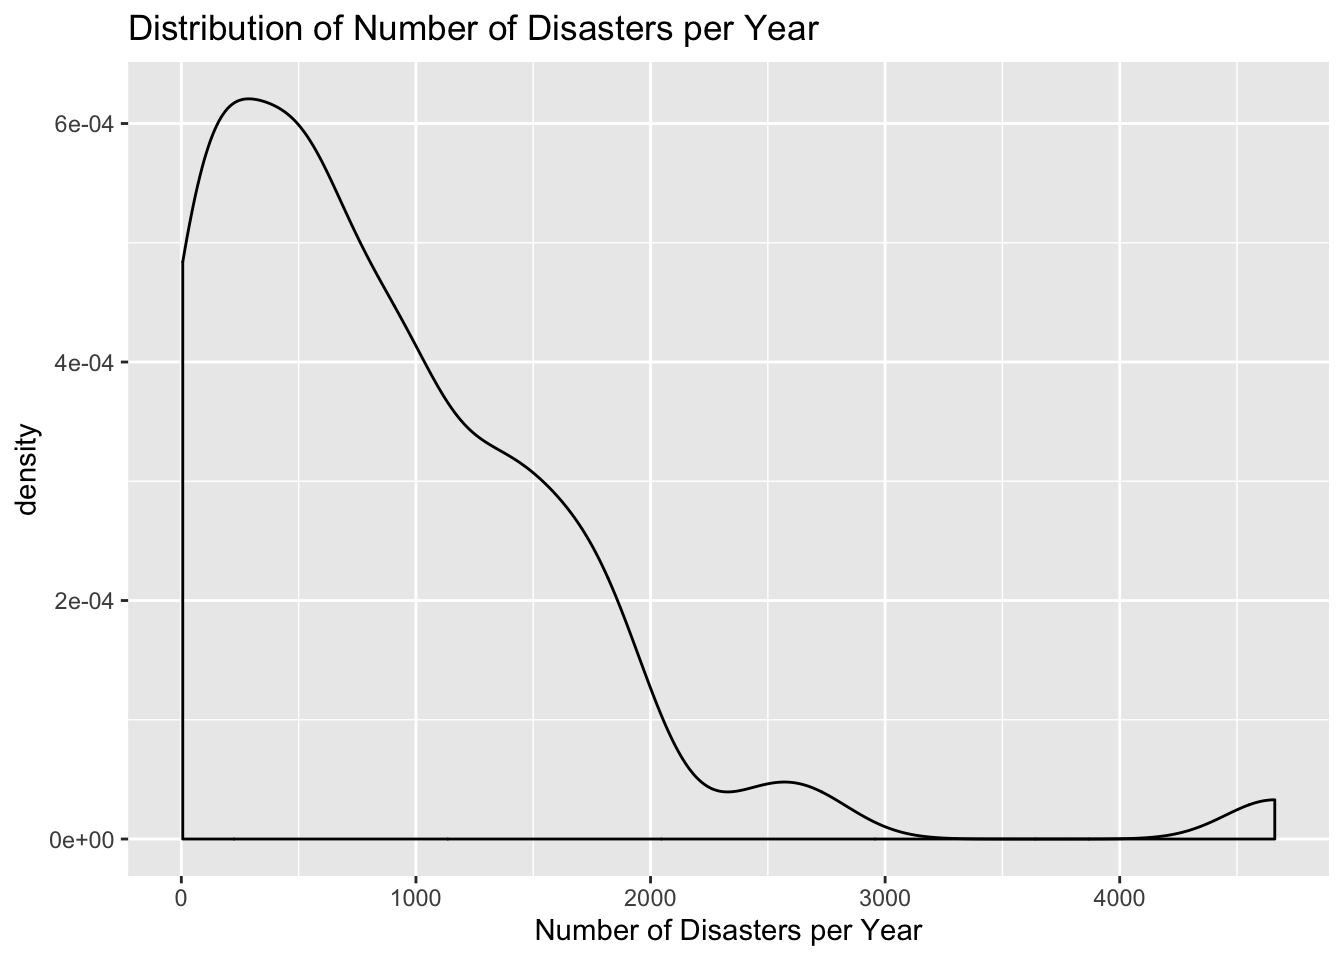
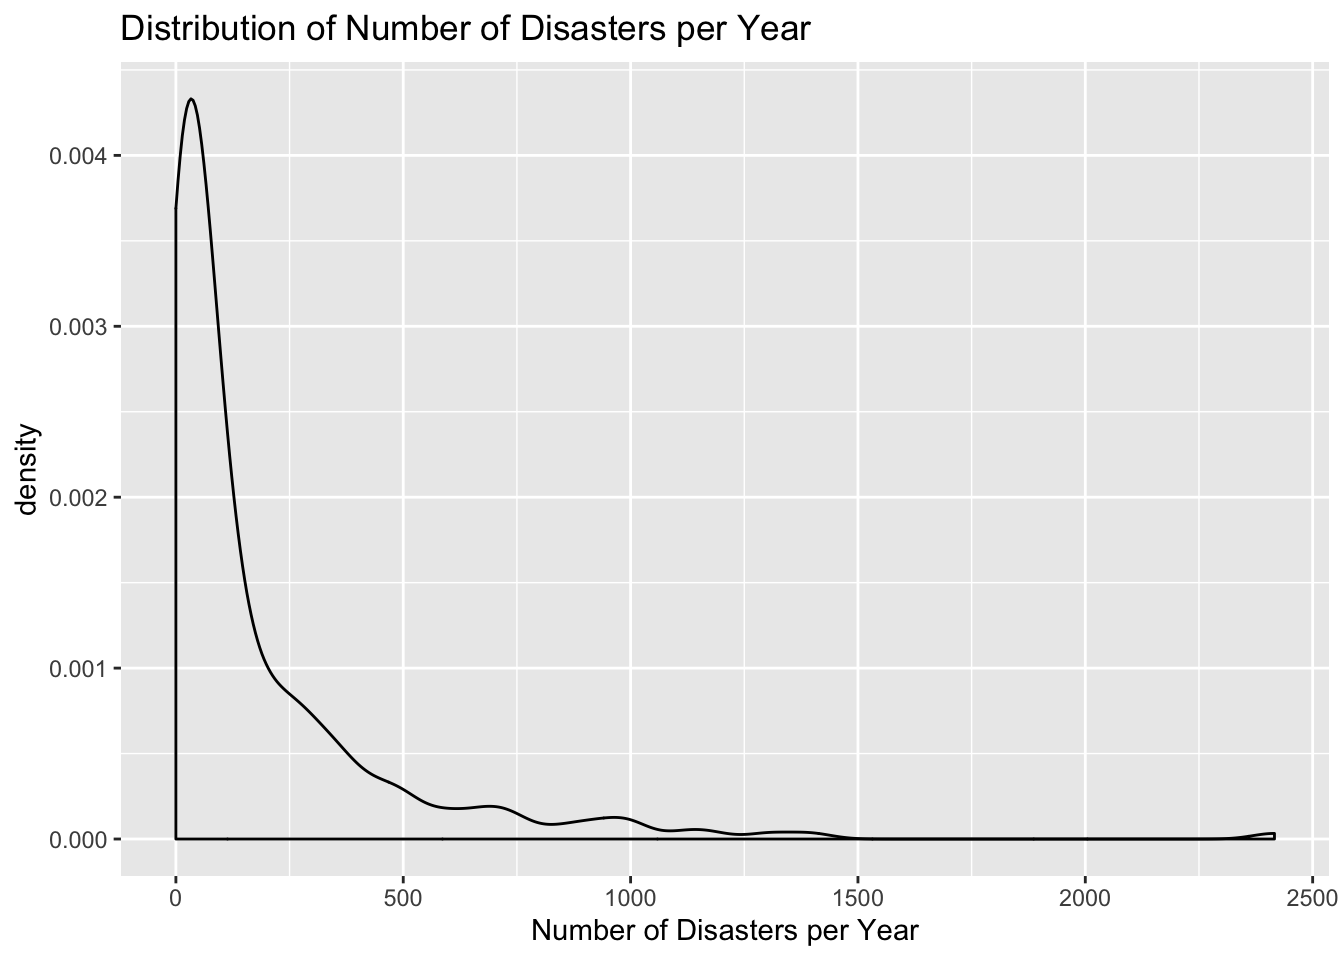
updated poisson variables - created regional counts

diff --git a/data_analysis.html b/data_analysis.html
@@ -357,10 +357,10 @@ div.tocify {
   <a href="data_analysis.html">Statistical Analysis</a>
 </li>
 <li>
-  <a href="https://ashleytseng.shinyapps.io/disastersgithub/_w_70c32f14/shiny_dashboard.html">Natural Disasters</a>
+  <a href="shiny_dashboard_new.html">Natural Disasters</a>
 </li>
 <li>
-  <a href="shiny_map.html">Interactive Map</a>
+  <a href="shiny_map_new.html">Interactive Map</a>
 </li>
 <li>
   <a href="Discussion.html">Discussion</a>
@@ -401,27 +401,33 @@ div.tocify {
 <p>After inspecting the summary visualizations and plotting the distribution of the data, we decided to run a Poisson regression model to formally test the hypothesis that the count of natural disasters per year in the US has increased from 1953 to 2018.</p>
 <p>Motivated by our exploratory visualizations, we also decided it was necessary to control for mean temperature, total precipitation, and the interaction between mean temperature in degrees Fahrenheit and total precipitation in inches.</p>
 <p>We fit a Poisson regression where our final model took the form:</p>
-<p><span class="math display">\[ log(Number \ of \ Disasters_i) \sim \beta_0 + \beta_1 Year_i + \beta_2 Mean \ Temp_i + \beta_3 Total \ Precip_i + \beta_4 Mean \ Temp_*Total \ Precip_i + \varepsilon_i,\]</span> for the <span class="math inline">\(i^{th}\)</span> year.</p>
+<p><span class="math display">\[ log(Count \ of \ Disasters_i) \sim \beta_0 + \beta_1 Year_i + \beta_2 Mean \ Temp_i + \beta_3 Total \ Precip_i + \beta_4 Mean \ Temp_*Total \ Precip_i + \varepsilon_i,\]</span> for the <span class="math inline">\(i^{th}\)</span> year.</p>
 <pre><code>## 
 ## Call:
-## glm(formula = n_total ~ year, family = poisson(link = log), data = final_data)
+## glm(formula = count_region ~ year + region + ave_temp + sum_precip, 
+##     family = poisson(link = log), data = regional_data)
 ## 
 ## Deviance Residuals: 
 ##     Min       1Q   Median       3Q      Max  
-## -30.689  -16.615   -6.832    8.654   70.899  
+## -23.214   -7.373   -3.518    1.823   63.168  
 ## 
 ## Coefficients:
-##               Estimate Std. Error z value Pr(&gt;|z|)    
-## (Intercept) -7.829e+01  7.215e-02   -1085   &lt;2e-16 ***
-## year         4.264e-02  3.606e-05    1182   &lt;2e-16 ***
+##                   Estimate Std. Error z value Pr(&gt;|z|)    
+## (Intercept)     -6.179e+01  6.543e-01 -94.436   &lt;2e-16 ***
+## year             3.342e-02  3.566e-04  93.719   &lt;2e-16 ***
+## regionnortheast -1.392e+00  1.792e-02 -77.691   &lt;2e-16 ***
+## regionsoutheast -6.205e-01  4.875e-02 -12.727   &lt;2e-16 ***
+## regionwest      -7.760e-01  1.814e-02 -42.789   &lt;2e-16 ***
+## ave_temp        -8.438e-03  3.417e-03  -2.469   0.0135 *  
+## sum_precip       2.145e-03  2.570e-05  83.470   &lt;2e-16 ***
 ## ---
 ## Signif. codes:  0 &#39;***&#39; 0.001 &#39;**&#39; 0.01 &#39;*&#39; 0.05 &#39;.&#39; 0.1 &#39; &#39; 1
 ## 
 ## (Dispersion parameter for poisson family taken to be 1)
 ## 
-##     Null deviance: 3259820  on 3968  degrees of freedom
-## Residual deviance: 1532056  on 3967  degrees of freedom
-## AIC: 1562987
+##     Null deviance: 78958  on 263  degrees of freedom
+## Residual deviance: 23725  on 257  degrees of freedom
+## AIC: 25242
 ## 
 ## Number of Fisher Scoring iterations: 5</code></pre>
 <table>
@@ -435,13 +441,38 @@ div.tocify {
 <tbody>
 <tr class="odd">
 <td align="left">(Intercept)</td>
-<td align="right">-78.291</td>
-<td align="right">0</td>
+<td align="right">-61.791</td>
+<td align="right">0.000</td>
 </tr>
 <tr class="even">
 <td align="left">year</td>
-<td align="right">0.043</td>
-<td align="right">0</td>
+<td align="right">0.033</td>
+<td align="right">0.000</td>
+</tr>
+<tr class="odd">
+<td align="left">regionnortheast</td>
+<td align="right">-1.392</td>
+<td align="right">0.000</td>
+</tr>
+<tr class="even">
+<td align="left">regionsoutheast</td>
+<td align="right">-0.621</td>
+<td align="right">0.000</td>
+</tr>
+<tr class="odd">
+<td align="left">regionwest</td>
+<td align="right">-0.776</td>
+<td align="right">0.000</td>
+</tr>
+<tr class="even">
+<td align="left">ave_temp</td>
+<td align="right">-0.008</td>
+<td align="right">0.014</td>
+</tr>
+<tr class="odd">
+<td align="left">sum_precip</td>
+<td align="right">0.002</td>
+<td align="right">0.000</td>
 </tr>
 </tbody>
 </table>
